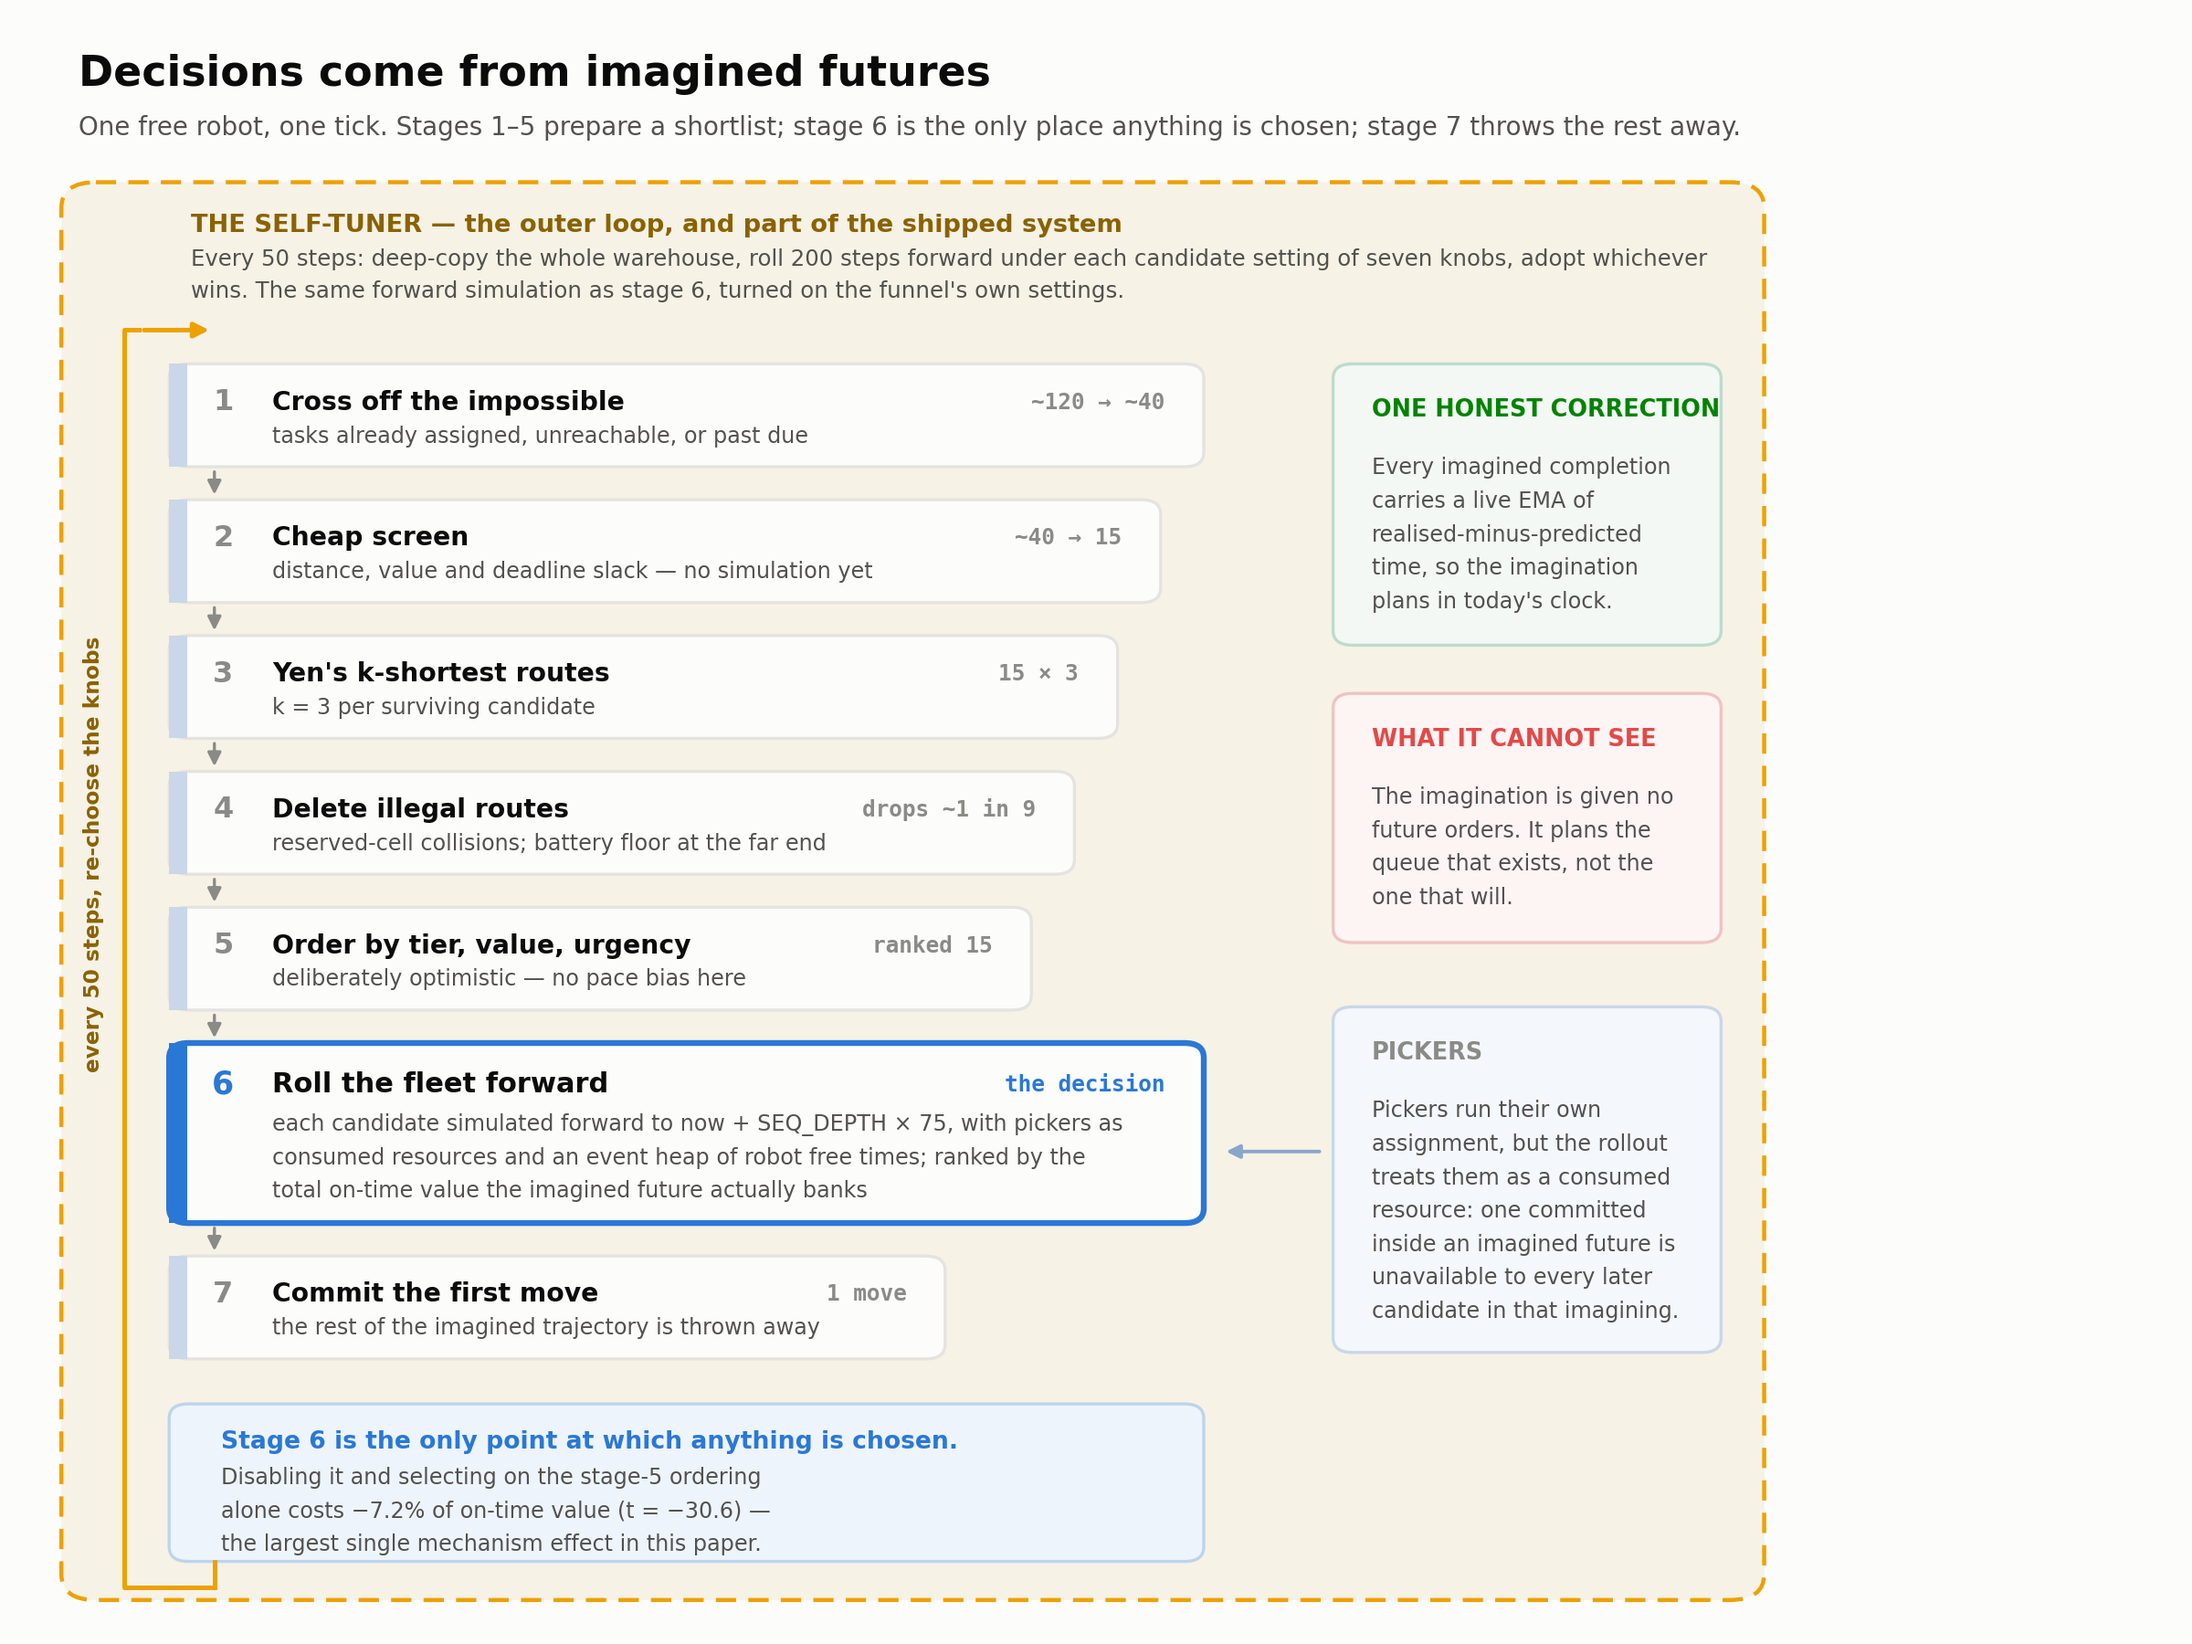
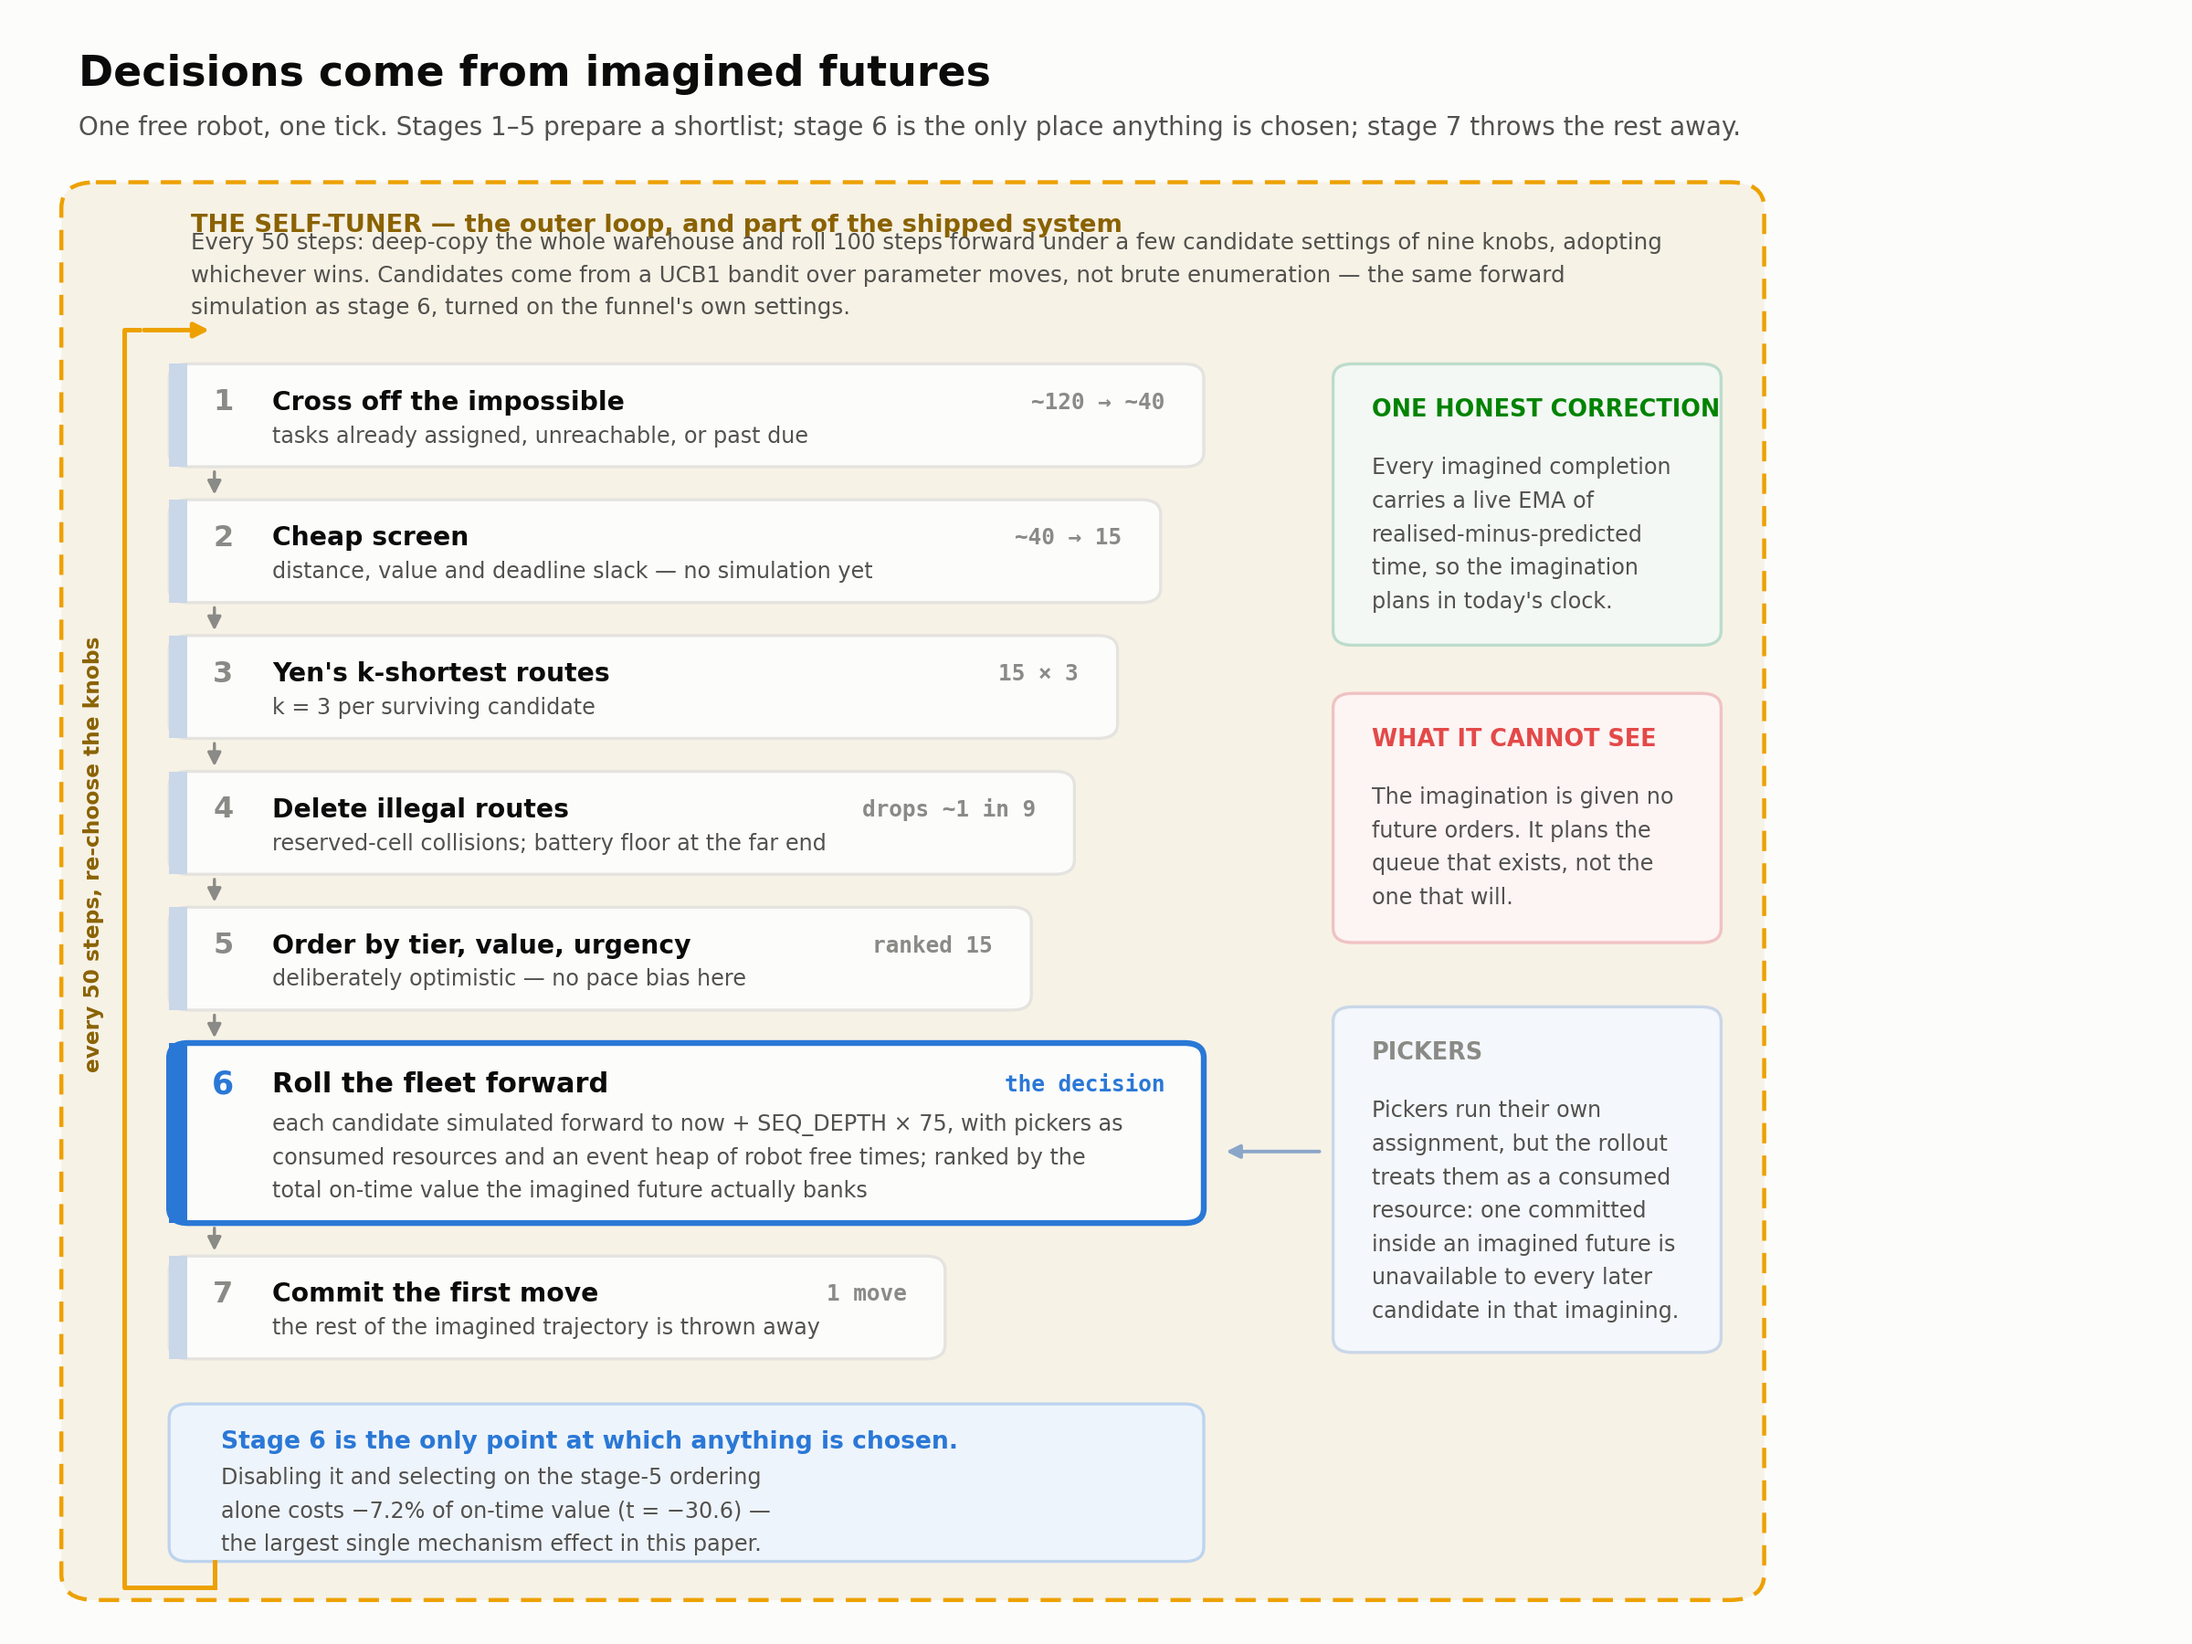
Figure 3: correct the tuner constants
The caption said 200 steps forward over seven knobs. The code rolls
HORIZON=100 steps over a nine-field setting tuple (P, theta, cap,
RATE_ALPHA, SEQ_DEPTH, URG_W, hyst, plus BELIEF_TRUST and BELIEF_MEMORY
when a rumour map is present), and evaluates four futures per replan --
the stay baseline plus three UCB1-picked moves, not every candidate.

Also names the guided proposal, which is the part of the design that
actually carries an external debt.

Changed region(s): [[0.0938, 0.1244, 0.75, 0.1867]]

diff --git a/scripts/make_paper_figures.py b/scripts/make_paper_figures.py
@@ -715,9 +715,11 @@ def fig_planner():
                                 fc="#f7f2e6", ec=C4, lw=1.6, ls=(0, (5, 3)), zorder=1))
     ax.text(8.0, 12.9, "THE SELF-TUNER — the outer loop, and part of the shipped system",
             fontsize=9.8, fontweight="bold", color="#8a6200", va="center", zorder=2)
-    ax.text(8.0, 16.0, "Every 50 steps: deep-copy the whole warehouse, roll 200 steps forward "
-                       "under each candidate setting of seven knobs, adopt whichever\nwins. The "
-                       "same forward simulation as stage 6, turned on the funnel's own settings.",
+    ax.text(8.0, 16.0, "Every 50 steps: deep-copy the whole warehouse and roll 100 steps forward "
+                       "under a few candidate settings of nine knobs, adopting\nwhichever wins. "
+                       "Candidates come from a UCB1 bandit over parameter moves, not brute "
+                       "enumeration — the same forward\nsimulation as stage 6, turned on the "
+                       "funnel's own settings.",
             fontsize=8.8, color=INK2, va="center", linespacing=1.6, zorder=2)
 
     # ------------------------------------------------------- stages 1-5: the funnel, visibly narrowing
